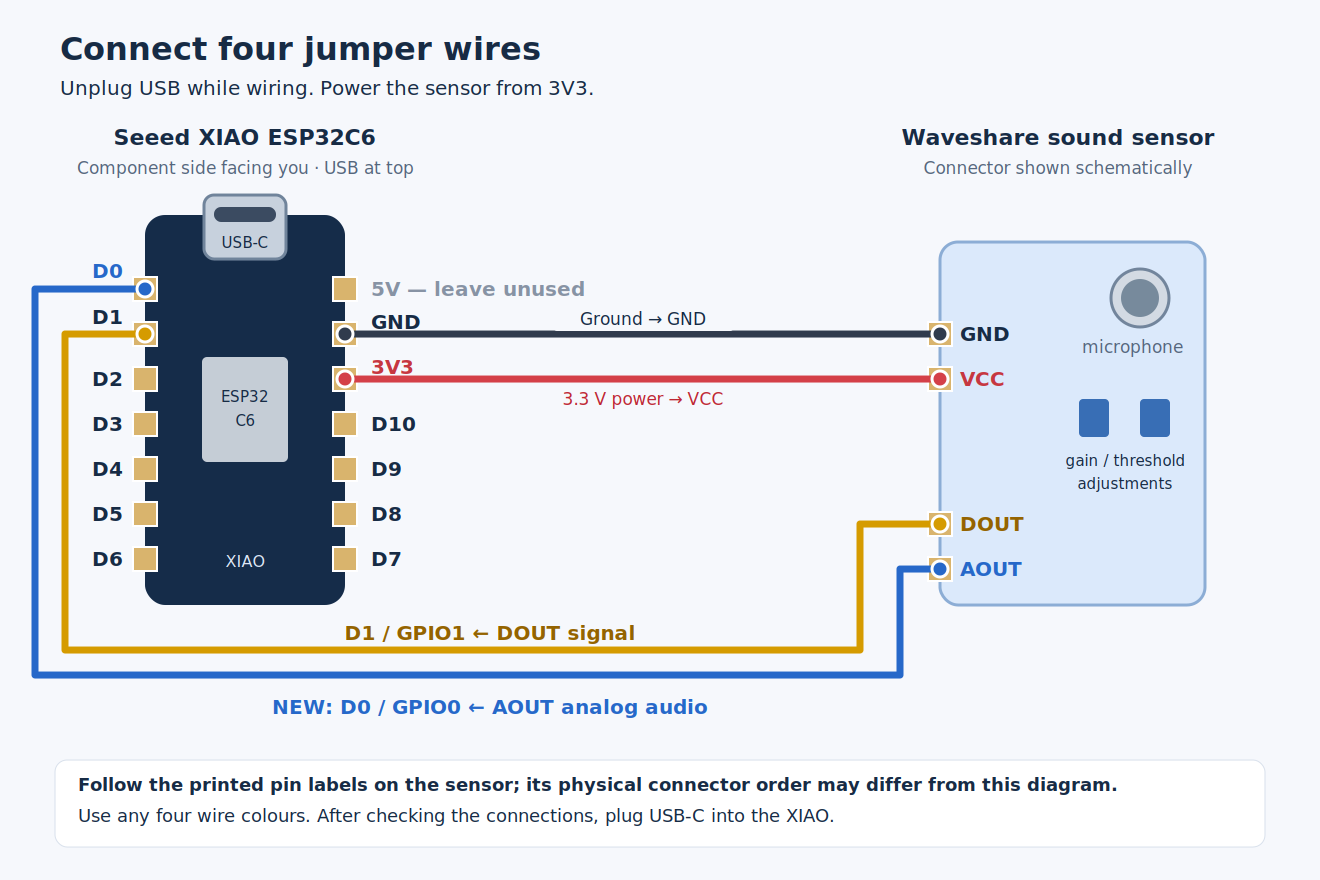
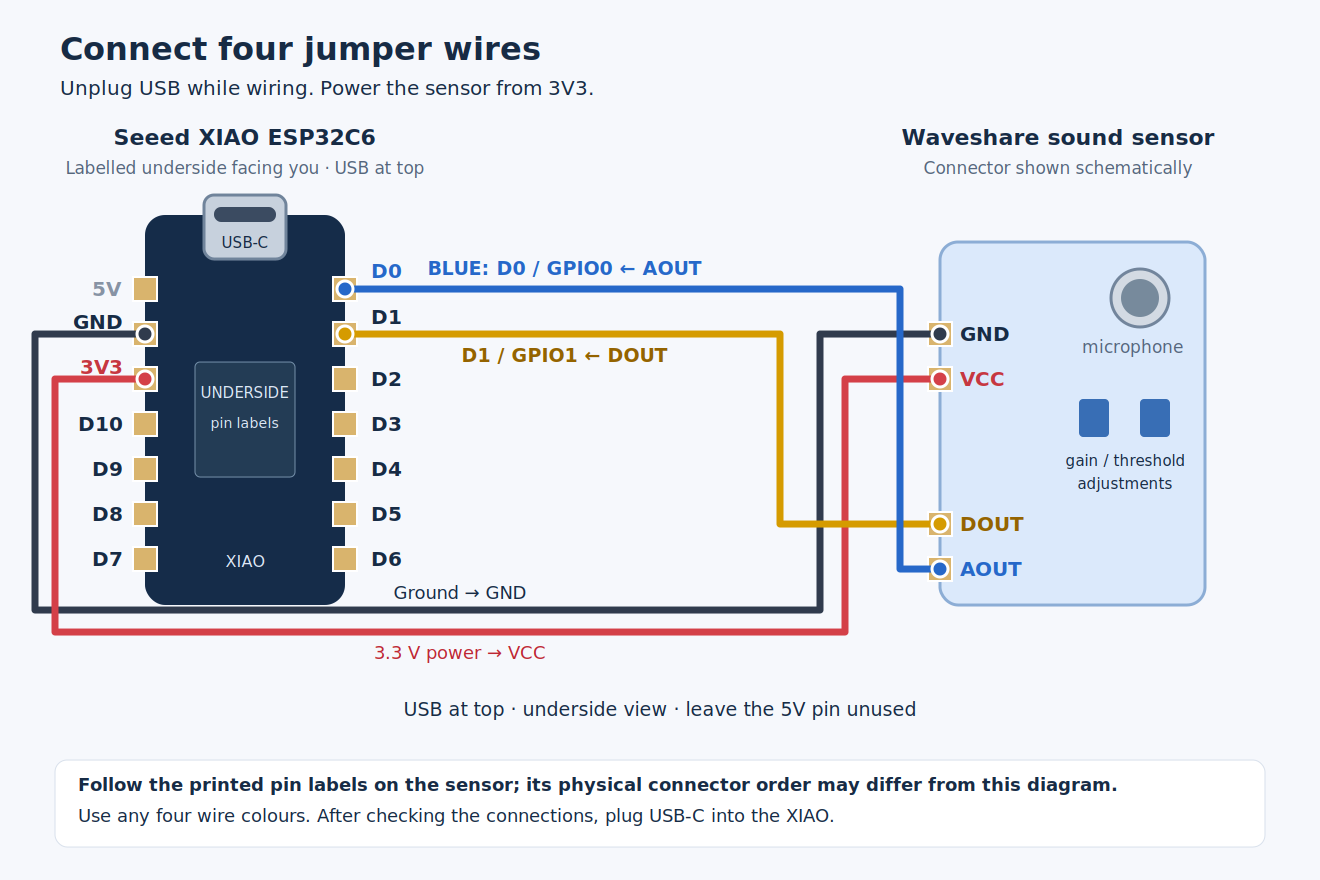
Preserve clap pairs across unrelated noise and add delivery diagnostics

diff --git a/firmware/ThreadClapClap/AudioClapDetector.h b/firmware/ThreadClapClap/AudioClapDetector.h
@@ -24,7 +24,7 @@ class AudioClapDetector {
     float maxPairHighDifference = 0.35f;
   };
 
-  enum class Decision { None, Calibrated, Accepted, SlowAttack, Spectrum, Clipping, Duration, PairMismatch };
+  enum class Decision { None, Calibrated, Accepted, Restarted, IgnoredWeaker, SlowAttack, Spectrum, Clipping, Duration };
   struct Result {
     Decision decision = Decision::None;
     bool doubleClap = false;
@@ -58,8 +58,15 @@ class AudioClapDetector {
       return result;
     }
     const float threshold = std::fmax(config_.minRms, noise_ * config_.noiseMultiplier);
+    const bool newImpulse = f.rms >= threshold
+        && f.rms >= std::fmax(previousRms_, noise_) * config_.attackRatio;
 
     if (blocked_) {
+      if (newImpulse) {
+        startBurst(f, now, threshold);
+        previousRms_ = f.rms;
+        return result;
+      }
       // Learn a sustained new background so it cannot hold the detector blocked
       // forever. It must settle below the updated release level before rearming.
       learn(f.rms, 0.03f);
@@ -74,20 +81,18 @@ class AudioClapDetector {
         return result;
       }
       if (f.rms >= threshold) {
-        active_ = true;
-        onset_ = lastLoud_ = now;
-        releaseLevel_ = threshold * 0.45f;
-        attack_ = f.rms / std::fmax(previousRms_, noise_);
-        fastAttack_ = attack_ >= config_.attackRatio;
-        duration_ = 0;
-        broadband_ = false;
-        clipped_ = false;
-        peak_ = {};
-        observe(f);
+        startBurst(f, now, threshold);
       } else {
         learn(f.rms, f.rms > noise_ ? 0.01f : 0.05f);
       }
     } else {
+      if (newImpulse && f.rms >= peak_.rms * 2) {
+        // A fresh loud impulse can start inside a weaker tonal/background
+        // candidate. Otherwise unrelated sound can mask a genuine clap.
+        startBurst(f, now, threshold);
+        previousRms_ = f.rms;
+        return result;
+      }
       if (f.rms >= releaseLevel_) {
         lastLoud_ = now;
         observe(f);
@@ -96,11 +101,12 @@ class AudioClapDetector {
       // Judge actual above-threshold duration. Waiting for the release quiet
       // period must not turn an otherwise valid burst into a long sound.
       if (duration_ > config_.maxBurstMs) {
-        result.decision = Decision::Duration;
+        const bool disruptive = broadband_ && fastAttack_;
+        result.decision = disruptive ? Decision::Duration : Decision::Spectrum;
         active_ = false;
-        blocked_ = true;
+        blocked_ = disruptive;
         lastLoud_ = now;
-        count_ = 0;
+        if (disruptive) count_ = 0;
       } else if (now - lastLoud_ >= config_.quietMs) {
         active_ = false;
         if (lastLoud_ - onset_ > config_.maxBurstMs) result.decision = Decision::Duration;
@@ -108,8 +114,7 @@ class AudioClapDetector {
         else if (!fastAttack_) result.decision = Decision::SlowAttack;
         else if (!broadband_) result.decision = Decision::Spectrum;
         else result.decision = accept(onset_);
-        if (result.decision == Decision::Duration || result.decision == Decision::Clipping
-            || result.decision == Decision::PairMismatch) count_ = 0;
+        if (result.decision == Decision::Duration || result.decision == Decision::Clipping) count_ = 0;
       }
     }
     previousRms_ = f.rms;
@@ -121,23 +126,38 @@ class AudioClapDetector {
   uint8_t pendingClaps() const { return count_; }
   const AudioFeatures &lastCandidate() const { return peak_; }
   uint32_t candidateDurationMs() const { return duration_; }
+  uint32_t candidateStartMs() const { return onset_; }
   float candidateAttack() const { return attack_; }
 
   static const char *name(Decision decision) {
     switch (decision) {
       case Decision::Calibrated: return "calibrated";
       case Decision::Accepted: return "accepted";
+      case Decision::Restarted: return "restarted_stronger_or_different";
+      case Decision::IgnoredWeaker: return "ignored_weaker";
       case Decision::SlowAttack: return "rejected_slow_attack";
       case Decision::Spectrum: return "rejected_spectrum";
       case Decision::Clipping: return "rejected_clipping";
       case Decision::Duration: return "rejected_duration";
-      case Decision::PairMismatch: return "rejected_pair_mismatch";
       default: return "none";
     }
   }
 
  private:
   void learn(float rms, float rate) { noise_ = std::fmax(1.0f, noise_ + rate * (rms - noise_)); }
+
+  void startBurst(const AudioFeatures &f, uint32_t now, float threshold) {
+    active_ = true;
+    blocked_ = false;
+    onset_ = lastLoud_ = now;
+    releaseLevel_ = threshold * 0.45f;
+    attack_ = f.rms / std::fmax(previousRms_, noise_);
+    fastAttack_ = attack_ >= config_.attackRatio;
+    duration_ = 0;
+    broadband_ = clipped_ = false;
+    peak_ = {};
+    observe(f);
+  }
 
   void observe(const AudioFeatures &f) {
     if (f.clippedFraction > config_.maxClippedFraction) clipped_ = true;
@@ -155,18 +175,27 @@ class AudioClapDetector {
   Decision accept(uint32_t now) {
     if (haveLastClap_ && now - lastClap_ < config_.minClapGapMs) return Decision::None;
     if (!haveLastClap_ || now - lastClap_ >= config_.sequenceGapMs) count_ = 0;
-    lastClap_ = now;
-    haveLastClap_ = true;
+    if (count_) {
+      const float ratio = peak_.rms / std::fmax(firstRms_, 1e-6f);
+      if (ratio < 1 / config_.maxPairRmsRatio) return Decision::IgnoredWeaker;
+      if (ratio > config_.maxPairRmsRatio
+          || std::fabs(peak_.highRatio - firstHigh_) > config_.maxPairHighDifference) {
+        // Resynchronise on the current strong candidate instead of throwing
+        // away both it and a preceding weak/unrelated noise candidate.
+        firstRms_ = peak_.rms;
+        firstHigh_ = peak_.highRatio;
+        count_ = 1;
+        lastClap_ = now;
+        haveLastClap_ = true;
+        return Decision::Restarted;
+      }
+    }
     if (count_ == 0) {
       firstRms_ = peak_.rms;
       firstHigh_ = peak_.highRatio;
-    } else if (count_ == 1) {
-      const float ratio = peak_.rms / std::fmax(firstRms_, 1e-6f);
-      if (ratio > config_.maxPairRmsRatio || ratio < 1 / config_.maxPairRmsRatio
-          || std::fabs(peak_.highRatio - firstHigh_) > config_.maxPairHighDifference) {
-        return Decision::PairMismatch;
-      }
     }
+    lastClap_ = now;
+    haveLastClap_ = true;
     if (count_ < 3) ++count_;
     return Decision::Accepted;
   }

diff --git a/tests/audio_detector_test.cpp b/tests/audio_detector_test.cpp
@@ -66,6 +66,7 @@ static void fftTone() {
   const auto f = r.analyzer.features();
   require(f.concentration > 0.95f, "FFT must put a sinusoid in neighbouring bins");
   require(f.highRatio < 0.01f && f.flatness < 0.01f, "tone spectrum must not look broadband");
+  require(f.occupiedBins <= 5, "a tone must occupy only a few significant bins");
   require(f.rms > 450 && f.rms < 650, "time-domain RMS must have the expected scale");
 }
 
@@ -74,6 +75,7 @@ static void fftBroadband() {
   const auto f = r.analyzer.features();
   require(f.highRatio > 0.5f && f.concentration < 0.3f && f.flatness > 0.2f,
           "white noise must have a broadband FFT signature");
+  require(f.occupiedBins >= 20, "broadband noise must occupy many significant bins");
 }
 
 static void doubleClapAndPhase() {
@@ -226,6 +228,70 @@ static void releaseQuietIsNotBurstDuration() {
   require(events == 1, "release confirmation time must not be counted as loud burst duration");
 }
 
+// Replay measured feature ranges with explicit timing. These are regression
+// fixtures for sequence handling, not raw recordings or an accuracy benchmark.
+struct FeatureBurst {
+  uint32_t start, end;
+  float rms;
+  bool tonal = false;
+};
+
+static unsigned replayFeatures(std::initializer_list<FeatureBurst> bursts) {
+  AudioClapDetector detector;
+  detector.reset(0);
+  unsigned events = 0;
+  for (uint32_t now = 0; now <= 4400; now += 8) {
+    AudioFeatures frame;
+    frame.rms = 7;
+    for (const auto &burst : bursts) {
+      if (now < burst.start || now >= burst.end) continue;
+      frame.rms = burst.rms;
+      frame.peak = burst.rms * (burst.tonal ? 1.5f : 3.0f);
+      frame.highRatio = burst.tonal ? 0.02f : 0.4f;
+      frame.flatness = burst.tonal ? 0.02f : 0.14f;
+      frame.concentration = burst.tonal ? 0.64f : 0.23f;
+    }
+    if (detector.process(frame, now).doubleClap) ++events;
+  }
+  return events;
+}
+
+static void longToneAfterPair() {
+  require(replayFeatures({{2200, 2280, 482}, {2504, 2576, 390},
+                          {2704, 3000, 73, true}}) == 1,
+          "a long narrowband interruption must not erase two genuine claps");
+}
+
+static void longBroadbandAfterPair() {
+  require(replayFeatures({{2200, 2280, 482}, {2504, 2576, 390},
+                          {2704, 3000, 400}}) == 0,
+          "sustained broadband sound must still cancel a pending pair");
+}
+
+static void weakPrefixBeforePair() {
+  require(replayFeatures({{2200, 2224, 71}, {2504, 2584, 674},
+                          {2808, 2888, 551}}) == 1,
+          "weak unrelated sound before a real pair must not discard its first clap");
+}
+
+static void weakThirdAfterPair() {
+  require(replayFeatures({{2200, 2280, 624}, {2504, 2584, 771},
+                          {2808, 2832, 72}}) == 1,
+          "a much weaker interruption must not count as a third clap");
+}
+
+static void comparableThirdCancels() {
+  require(replayFeatures({{2200, 2280, 624}, {2504, 2584, 771},
+                          {2808, 2888, 650}}) == 0,
+          "three comparable claps must still cancel the gesture");
+}
+
+static void clapInsideWeakTone() {
+  require(replayFeatures({{2192, 2296, 60, true}, {2200, 2280, 650},
+                          {2504, 2584, 600}}) == 1,
+          "a strong clap onset during a weak tone must begin a new candidate");
+}
+
 int main() {
   const struct { const char *name; void (*run)(); } tests[] = {
     {"DC removal and silence", dcAndSilence}, {"FFT sinusoid", fftTone},
@@ -238,6 +304,12 @@ int main() {
     {"reverberant double clap", reverberantPair},
     {"measured feature bounds and tonal interruption", measuredClapSpectrumAndNoiseBetween},
     {"release quiet excluded from burst duration", releaseQuietIsNotBurstDuration},
+    {"long tone after pair", longToneAfterPair},
+    {"long broadband sound after pair", longBroadbandAfterPair},
+    {"weak prefix before pair", weakPrefixBeforePair},
+    {"weak third interruption", weakThirdAfterPair},
+    {"comparable third cancels", comparableThirdCancels},
+    {"clap onset inside weak tone", clapInsideWeakTone},
   };
   unsigned failed = 0;
   for (const auto &test : tests) {

diff --git a/firmware/ThreadClapClap/AudioFeatures.h b/firmware/ThreadClapClap/AudioFeatures.h
@@ -10,6 +10,7 @@ struct AudioFeatures {
   float highRatio = 0;      // 1.5-7.5 kHz power / 250 Hz-7.5 kHz power
   float concentration = 0;  // largest three neighbouring FFT bins / band power
   float flatness = 0;       // geometric / arithmetic mean of in-band bin power
+  uint16_t occupiedBins = 0; // in-band bins holding at least 1/128 of band power
   float clippedFraction = 0;
   float rawMean = 0;
   uint16_t rawMin = 0;
@@ -145,6 +146,9 @@ class AudioAnalyzer {
       if (triplet > maxTriplet) maxTriplet = triplet;
     }
     if (total) {
+      for (size_t i = firstBin; i <= lastBin; ++i) {
+        if (power_[i] * 128 >= total) ++features_.occupiedBins;
+      }
       constexpr float bins = lastBin - firstBin + 1;
       features_.highRatio = static_cast<float>(high) / total;
       features_.concentration = static_cast<float>(maxTriplet) / total;

diff --git a/README.md b/README.md
@@ -7,7 +7,7 @@ click over Thread. The firmware also enables Thread
 router eligibility to let the device help relay mesh traffic.
 
 **Status:** the analog FFT firmware compiles with Arduino ESP32 **3.3.12**,
-and all **31 host tests** pass. The earlier digital version was flashed,
+and all **37 host tests** pass. The earlier digital version was flashed,
 commissioned into Home Assistant, and automatically became a Thread router.
 The analog version has also delivered a real double-clap event through
 Home Assistant to the lamp group. Recognition is still being tuned; real-room
@@ -28,9 +28,10 @@ XIAO must have its headers fitted, and the sensor must have accessible pins.
 | DOUT | **D1 / GPIO1** | Yellow |
 | **AOUT** | **D0 / GPIO0** | **Blue — new analog connection** |
 
-With the XIAO's **component side facing you and USB-C socket at the top**, D1
-is the second pin down on the left and D0 is the top-left pin. GND is the
-second down on the right; 3V3 is the third down on the right. Follow the **printed sensor pin labels**:
+The diagram shows the XIAO's **labelled underside facing you, with USB-C at
+the top**: D0 is the top-right pin and D1 is the second down on the right.
+GND is the second down on the left; 3V3 is the third down on the left.
+The component-side view mirrors those positions. Follow the **printed sensor pin labels**:
 its connector in the illustration is schematic, not a physical pin-order guide.
 Wire colours are your choice.
 
@@ -196,13 +197,17 @@ classifier:
    crest factor rejects a smooth sine wave and isolated electrical spikes.
 5. Clipped bursts are rejected because saturation corrupts the spectral tests.
 6. Two accepted bursts must arrive roughly 160-600 ms apart and have reasonably
-   similar strength and spectral balance. A third accepted burst cancels the pair.
+   similar strength and spectral balance. A third comparable burst cancels the pair.
 
 The event still waits for the 600 ms window after the second onset to close,
 and Home Assistant still sees **one button click**, so the same automation
-blueprint works. Sustained noise, clipping, and mismatched pairs clear pending claps; short
-rejected tones are ignored, and echo tails inside the 160 ms lockout do not
-erase a genuine first clap. Data loss resets the
+blueprint works. Sustained broadband noise and clipping clear pending claps.
+Rejected tones preserve pending claps. A much weaker candidate is ignored; a
+stronger or spectrally different candidate starts a new sequence, allowing a
+genuine pair to follow unrelated sound. A fresh strong onset can also interrupt
+a weak background candidate. Echo tails inside the 160 ms lockout do not
+erase a genuine first clap. The supplied automations queue up to ten runs so
+closely delivered clicks can each execute their action. Data loss resets the
 stream and calibration; there is no automatic fallback to the less selective
 DOUT-only detector. Offline gestures are discarded.
 
@@ -219,9 +224,13 @@ raw ADC bias/range, clipping fraction, counters, DMA overflows, and the maximum
 processing time for a 128-sample batch. Each completed candidate prints its
 classification, for example `accepted`, `rejected_spectrum`,
 `rejected_slow_attack`, `rejected_clipping`, `rejected_duration`, or
-`rejected_pair_mismatch`.
+`restarted_stronger_or_different`, or `ignored_weaker`. Thread status also
+reports neighbour signal/link quality and MAC acknowledgement/retry counters;
+a connected router status alone does not prove timely Matter delivery.
 
 The `high`, `flat`, and `tone` fields are ratios, not calibrated sound levels.
+`bins` counts in-band FFT bins holding at least 1/128 of total band power;
+`crest` is peak divided by RMS. Both help explain spectral rejections.
 `raw` and `range` are ADC counts, not millivolts. `max_batch_us` includes
 classification/logging time and task preemption; it is a diagnostic, not a
 hard real-time deadline guarantee. Repeated DMA overflows mean the stream is
@@ -285,14 +294,15 @@ your existing Border Router to connect Thread to the Home Assistant LAN.
 python3 tools/project.py test
 ```
 
-The **31 host tests** include the original 14 digital tests plus 17 analog
+The **37 host tests** include the original 14 digital tests plus 23 analog
 analysis/classification tests. Analog fixtures cover DC removal, a sinusoid's
 FFT/RMS, broadband noise, valid pairs across window alignments, ignored singles
 and triples, tonal and low-frequency pairs, sustained noise and recovery,
 slow attacks, clipping, electrical spikes, mismatched pairs, echoes, resets,
 and `millis()` rollover. They also cover reverberant clap tails and a feature
-fixture based on the first physical clap test, plus a regression that excludes
-the release-quiet confirmation time from burst duration. These tests are not a recorded
+fixture based on the first physical clap test, exclusion of release-quiet
+time from burst duration, and feature timelines with weak precursors, tonal
+interruptions, strong onsets inside background sound, and a third burst. These tests are not a recorded
 real-room accuracy benchmark.
 
 Analog mode uses ADC DMA with bounded processing batches. The main loop

diff --git a/docs/hardware-validation.md b/docs/hardware-validation.md
@@ -119,3 +119,34 @@ Do not include Thread credentials or device storage.
   It remains paired, attached as a router, and reports zero DMA overflows.
 - Repeatability, single/triple-clap checks, and labelled real-room negative
   tests remain to be completed. No measured precision/recall is claimed.
+
+### 2026-10-21: repeated trials and sequence regressions
+
+- The operator reported one visible success among four pairs, followed by no
+  visible successes in another three-pair trial. Recognition remains unreliable.
+- Logs showed a weak precursor consuming a subsequent strong clap, and a long
+  narrowband interruption clearing an otherwise accepted pair. Sequence handling
+  now ignores much weaker interruptions, restarts on a stronger/different
+  candidate, and preserves pending claps across rejected tonal sounds.
+- Six additional feature-timeline regressions cover those cases, including
+  preservation of sustained-broadband and comparable-triple rejection. All 37
+  host tests and the analog undefined-behaviour sanitizer check pass.
+- Closely delivered Matter events were seen in Home Assistant. The supplied
+  automations and the deployed test automation now queue up to ten runs. This
+  prevents overlapping actions being dropped; it does not correct delayed
+  delivery or establish that each event corresponds to an intentional clap.
+- Added candidate onset times, click sequence numbers, and Thread neighbour/
+  MAC acknowledgement/retry diagnostics. No raw audio is recorded or sent.
+- The sequence update compiled and flashed without erasing commissioning. The
+  board reattached as a router and reported zero audio DMA overflows. Later
+  Home Assistant history contained event and group-state changes, but these
+  cannot be confidently assigned to the operator's individual attempts.
+- Wiring artwork now explicitly shows the labelled underside with USB at the
+  top: D0/D1 on the right and GND/3V3 on the left. Connections are unchanged.
+
+- A subsequent diagnostic build adds the peak/RMS crest factor and significant
+  FFT-bin count to candidate logs without relaxing spectral thresholds. Tone
+  and broadband FFT fixtures also check those bin counts. This build was
+  flashed with commissioning retained; the board reattached as a router and
+  continued sampling without DMA overflows. A labelled physical pair is still
+  needed to determine the next spectral-classifier adjustment.
